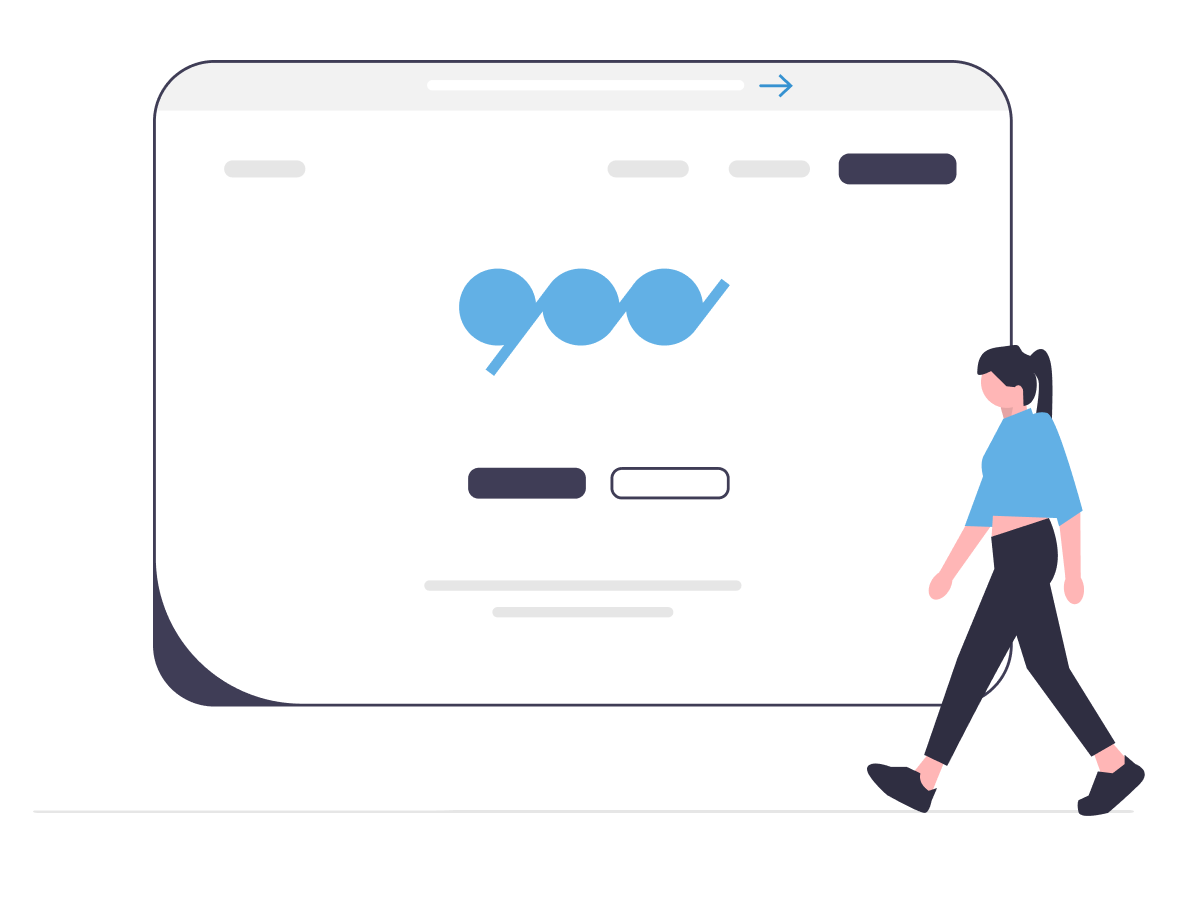
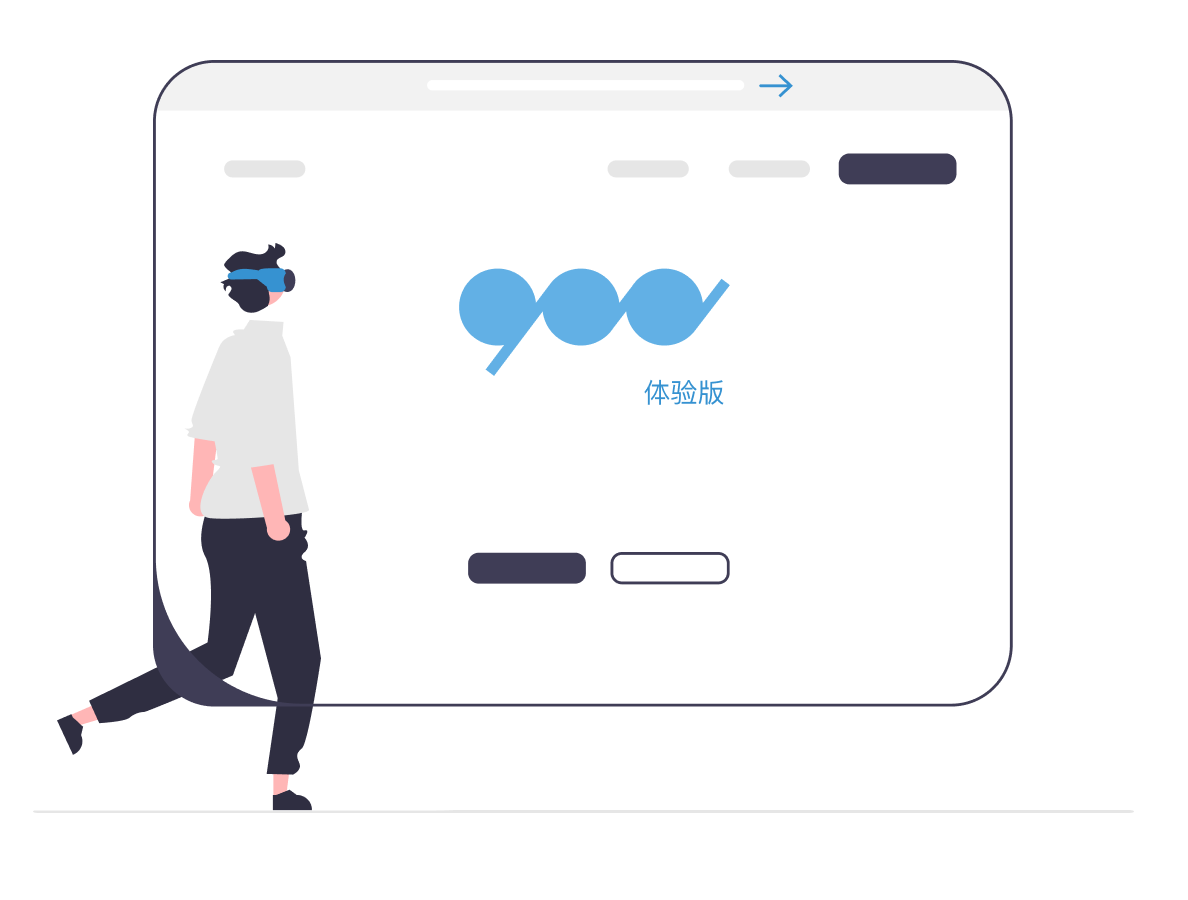
feat: new platform deploy entrance

diff --git a/src/views/Deployment/TypeSelector/hook.ts b/src/views/Deployment/TypeSelector/hook.ts
@@ -3,15 +3,16 @@ import { useAtom } from 'jotai'
 
 import { DeployType } from '@src/shared/enum/deploy'
 import { deployTypeDescMapping, deployTypeLogoMapping, deployTypeNameMapping } from '@src/shared/mapping/deploy'
-import { selectedTypeAtom } from './store'
-import { APP_EXPERIENCE, APP_SDK_Documents } from '@router'
+import { disabledTrialAtom, selectedTypeAtom } from './store'
+import { APP_EXPERIENCE, APP_PLATFORM, APP_SDK_Documents } from '@router'
 import { socketPushMsgForProject } from '@ghooks'
 import { SNAPSHOT_KEY_OF_ROUTER } from '@src/constants'
 import { useSelector } from 'react-redux'
 import { RootState } from '@reducer'
 import { useNavigate } from 'react-router-dom'
+import experienceAPI from '@src/apis/experience'
 
-export const useItemCard = (deployType: DeployType) => {
+export const useItemCard = (deployType: DeployType, disabled: boolean) => {
   const containerRef = React.useRef<HTMLDivElement | null>(null)
 
   const [selectedType, setSelectedType] = useAtom(selectedTypeAtom)
@@ -34,6 +35,7 @@ export const useItemCard = (deployType: DeployType) => {
   const selected = selectedType === deployType
 
   const handleClick = () => {
+    if (disabled) return
     if (selected) return setSelectedType(null)
     setSelectedType(deployType)
   }
@@ -51,6 +53,20 @@ export const useItemCard = (deployType: DeployType) => {
       }
     },
     [selected]
+  )
+
+  React.useEffect(
+    () => {
+      const $c = containerRef.current
+      if (!$c) return
+
+      if (disabled) {
+        $c.setAttribute('disabled', '')
+      } else {
+        $c.removeAttribute('disabled')
+      }
+    },
+    [disabled]
   )
 
   React.useEffect(
@@ -99,6 +115,19 @@ export const useFooter = () => {
     )
   }
 
+  const toPlatform = () => {
+    socketPushMsgForProject(
+      activePipeLine, {
+        active_page: SNAPSHOT_KEY_OF_ROUTER.APP_PLATFORM,
+      }
+    )
+    navigate(
+      {
+        pathname: APP_PLATFORM,
+      }
+    )
+  }
+
   const handleClick = () => {
     if (!selectedType) return
 
@@ -109,6 +138,9 @@ export const useFooter = () => {
       case DeployType.EXPERIENCE:
         toExperience()
         break
+      case DeployType.PLATFORM:
+        toPlatform()
+        break
       default:
         break
     }
@@ -117,5 +149,34 @@ export const useFooter = () => {
   return {
     disabled: selectedType === null,
     handleClick,
+  }
+}
+
+export const useTypeSelector = () => {
+  const modelVersionId = useSelector((state: RootState) => state.tasksSilce.activeTaskInfo?.model?.version_id)
+  const [disabledTrial, setDisabledTrial] = useAtom(disabledTrialAtom)
+
+  React.useEffect(
+    () => {
+      if (!modelVersionId) {
+        setDisabledTrial(true)
+        return
+      }
+
+      experienceAPI.check(modelVersionId)
+        .then(({ success, data }) => {
+          if (!success || !data) {
+            setDisabledTrial(true)
+            return
+          }
+
+          setDisabledTrial(!Boolean(data.supported))
+        })
+    },
+    [modelVersionId]
+  )
+
+  return {
+    disabledTrial,
   }
 }

diff --git a/src/shared/mapping/deploy.ts b/src/shared/mapping/deploy.ts
@@ -1,18 +1,23 @@
 import sdk from '@src/asset/images/deploy/sdk.png'
 import experience from '@src/asset/images/deploy/experience.png'
+import platform from '@src/asset/images/deploy/platform.png'
+
 import { DeployType } from '../enum/deploy'
 
 export const deployTypeLogoMapping: Map<DeployType, any> = new Map([
-  [DeployType.SDK, sdk],
   [DeployType.EXPERIENCE, experience],
+  [DeployType.PLATFORM, platform],
+  [DeployType.SDK, sdk],
 ])
 
 export const deployTypeNameMapping: Map<DeployType, string> = new Map([
+  [DeployType.EXPERIENCE, '应用平台部署（体验版）'],
+  [DeployType.PLATFORM, '应用平台部署'],
   [DeployType.SDK, 'SDK 部署'],
-  [DeployType.EXPERIENCE, '应用平台部署（体验版）']
 ])
 
 export const deployTypeDescMapping: Map<DeployType, string> = new Map([
-  [DeployType.SDK, '我们提供适配多种芯片的“模型推理 SDK”，您可以下载适合您硬件的 SDK，开始任意的开发。'],
-  [DeployType.EXPERIENCE, '我们提供体验设备用于您初步体验我们的应用平台部署。正式使用请查看右上角「应用部署」，无需二次开发，即可以运行模型，并支持多项生产级功能。']
+  [DeployType.EXPERIENCE, '验设备用于您初步体验我们的应用平台部署'],
+  [DeployType.PLATFORM, '无需二次开发，即可以运行模型，并支持多项生产级功能'],
+  [DeployType.SDK, '“模型推理 SDK” 适配多种芯片，您可以下载适合您硬件的SDK，开始任意的开发。'],
 ])

diff --git a/src/views/Deployment/TypeSelector/ItemCard.tsx b/src/views/Deployment/TypeSelector/ItemCard.tsx
@@ -18,11 +18,23 @@ const Card = styled.div`
   cursor: pointer;
   transition:
           box-shadow 0.2s ease-in-out;
-  &:hover {
+  &:hover:not([disabled]) {
     box-shadow: 0 2px 1px -1px rgba(0,0,0,0.2),0px 1px 1px 0px rgba(0,0,0,0.14),0px 1px 3px 0px rgba(0,0,0,0.12)
   }
   &[selected] {
     outline: 2px solid #62b0e5;
+  }
+  &[disabled] {
+    cursor: not-allowed;
+    img {
+      filter: grayscale(80%)!important;
+    }
+    * {
+      color: #8C8C8C!important;
+    }
+  }
+  * {
+    use-select: none;
   }
 `
 const Img = styled.img`
@@ -51,12 +63,13 @@ const Desc = styled.p`
   padding: 0 20px;
 `
 
-const ItemCard: React.FC<{ type: DeployType }> = (
+const ItemCard: React.FC<{ type: DeployType, disabled?: boolean }> = (
   {
     type,
+    disabled = false
   }
 ) => {
-  const { logo, title, description, handleClick, containerRef } = useItemCard(type)
+  const { logo, title, description, handleClick, containerRef } = useItemCard(type, disabled)
   return (
     <Card ref={containerRef} onClick={handleClick}>
       <Img src={logo} />

diff --git a/src/router/subRouters/market/market.tsx b/src/router/subRouters/market/market.tsx
@@ -19,7 +19,8 @@ import {
   APP_DEVICE_INDEX,
   APP_IncreaseData,
   APP_UNREMARKED_CREATE,
-  APP_ORDER_PROCESS, APP_EXPERIENCE
+  APP_ORDER_PROCESS,
+  APP_EXPERIENCE, APP_PLATFORM
 } from '../../pathNames'
 import { lazy } from 'react'
 import { SuspenseFn } from '../../utils'
@@ -75,8 +76,11 @@ const Documents = lazy(() => import('@src/views/Deployment/BySDK/Documents'));
 
 const DeviceIndex = lazy(() => import('@src/views/Device/DeviceIndex'));
 
+// 部署
 // 体验
 const Experience = lazy(() => import('@src/views/Experience'))
+// 平台
+const Platform = lazy(() => import('@src/views/Platform'))
 
 export default {
   path: '/app',
@@ -118,6 +122,10 @@ export default {
         {
           path: APP_EXPERIENCE,
           element: SuspenseFn(Experience)
+        },
+        {
+          path: APP_PLATFORM,
+          element: SuspenseFn(Platform)
         },
         // 本地文件上传
 

diff --git a/src/views/Platform/hook.ts b/src/views/Platform/hook.ts
@@ -1,0 +1,29 @@
+import { useNavigate } from 'react-router-dom'
+import { useSelector } from 'react-redux'
+import { RootState } from '@reducer'
+import { APP_SELECT_DEPLOY_TYPE } from '@router'
+import { socketPushMsgForProject } from '@ghooks'
+import { SNAPSHOT_KEY_OF_ROUTER } from '@src/constants'
+
+export const useFooter = () => {
+  const navigate = useNavigate()
+
+  const activePipeLine = useSelector((state: RootState) => {
+    return state.tasksSilce.activePipeLine || {}
+  })
+
+  const handlePre = () => {
+    navigate({
+      pathname: APP_SELECT_DEPLOY_TYPE,
+    })
+    socketPushMsgForProject(
+      activePipeLine, {
+        active_page: SNAPSHOT_KEY_OF_ROUTER.APP_SELECT_DEPLOY_TYPE
+      }
+    )
+  }
+
+  return {
+    handlePre,
+  }
+}

diff --git a/src/views/Deployment/TypeSelector/Production.tsx b/src/views/Deployment/TypeSelector/Production.tsx
@@ -3,6 +3,7 @@ import styled from 'styled-components'
 
 import ItemCard from './ItemCard'
 import { DeployType } from '@src/shared/enum/deploy'
+import { useTypeSelector } from './hook'
 
 const Container = styled.div`
   display: flex;
@@ -19,11 +20,14 @@ const Content = styled.div`
 `
 
 const Production: React.FC = () => {
+  const { disabledTrial } = useTypeSelector()
+
   return (
     <Container>
       <Content>
+        <ItemCard type={DeployType.EXPERIENCE} disabled={disabledTrial} />
+        <ItemCard type={DeployType.PLATFORM} />
         <ItemCard type={DeployType.SDK} />
-        <ItemCard type={DeployType.EXPERIENCE} />
       </Content>
     </Container>
   )

diff --git a/src/views/Platform/Platform.tsx b/src/views/Platform/Platform.tsx
@@ -1,0 +1,35 @@
+import React from 'react'
+import styled from 'styled-components'
+
+import Footer from './Footer'
+import TaskStep from '@views/container/TaskStepLayout/TaskStep'
+
+const Container = styled.div`
+  display: flex;
+  flex-direction: column;
+  width: 100%;
+  height: calc(100vh - 50px);
+`
+
+const Content = styled.div`
+  flex: 1;
+  display: flex;
+  flex-direction: column;
+  align-items: center;
+  overflow: hidden;
+  padding-top: 60px;
+`
+
+const Platform: React.FC = () => {
+  return (
+    <Container>
+      <TaskStep />
+      <Content>
+        123
+      </Content>
+      <Footer />
+    </Container>
+  )
+}
+
+export default Platform

diff --git a/src/views/container/TaskStepLayout/TaskStep/TaskStep.tsx b/src/views/container/TaskStepLayout/TaskStep/TaskStep.tsx
@@ -36,7 +36,9 @@ import {
   APP_THIRDPARTY_STEP_3,
   APP_THIRDPARTY_STEP_4,
   APP_THIRDPARTY_SelectTrainType,
-  APP_DATASET_CREATE_TYPE
+  APP_DATASET_CREATE_TYPE,
+  APP_EXPERIENCE,
+  APP_PLATFORM,
 } from '@router'
 
 import { socketPushMsgForProject } from '@ghooks'
@@ -76,7 +78,9 @@ const PUBLISH_ACTIVE = [
   APP_AfterDeployed,
   APP_ForecastModule,
   APP_SelectModule,
-  APP_SetModuleConfig
+  APP_SetModuleConfig,
+  APP_EXPERIENCE,
+  APP_PLATFORM,
 ]
 
 const TaskStep = (): JSX.Element => {

diff --git a/src/views/Platform/Footer.tsx b/src/views/Platform/Footer.tsx
@@ -1,0 +1,18 @@
+import React from 'react'
+import { FooterBar } from '@src/UIComponents'
+import { SecondaryBtn } from '@src/components/Button'
+
+import { useFooter } from './hook'
+
+const Footer: React.FC = () => {
+  const { handlePre } = useFooter()
+  return (
+    <FooterBar
+      rightContent={(
+        <SecondaryBtn width={132} onClick={handlePre}>上一步</SecondaryBtn>
+      )}
+    />
+  )
+}
+
+export default Footer

diff --git a/src/apis/experience.ts b/src/apis/experience.ts
@@ -45,6 +45,21 @@ export const experienceAPI = {
       }
     }
   },
+
+  check: async (id: string): Promise<APIResponse<{ supported: boolean }>> => {
+    try {
+      const { data } = await http.get(`/v3/trialapps/${id}/check`)
+      return {
+        success: true,
+        data,
+      }
+    } catch (e) {
+      console.error(e)
+      return {
+        success: false,
+      }
+    }
+  },
 }
 
 export default experienceAPI

diff --git a/src/router/pathNames/index.ts b/src/router/pathNames/index.ts
@@ -74,3 +74,4 @@ export const APP_SDK_Documents = '/app/sdk_documents'
 export const APP_DEVICE_INDEX = '/app/DeviceIndex'
 
 export const APP_EXPERIENCE = '/app/experience'
+export const APP_PLATFORM = '/app/platform'

diff --git a/src/views/Deployment/TypeSelector/store.ts b/src/views/Deployment/TypeSelector/store.ts
@@ -3,3 +3,5 @@ import { atom } from 'jotai'
 import { DeployType } from '@src/shared/enum/deploy'
 
 export const selectedTypeAtom = atom<DeployType | null>(null)
+
+export const disabledTrialAtom = atom<boolean>(true)
